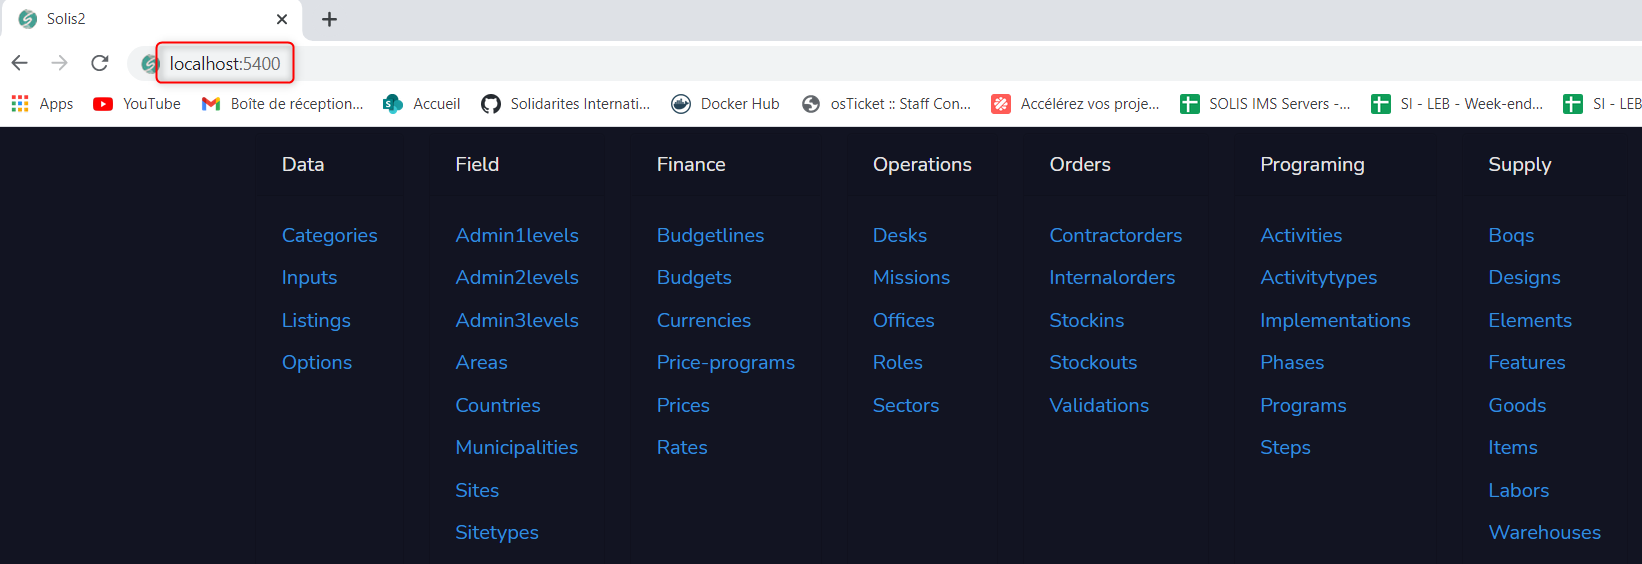
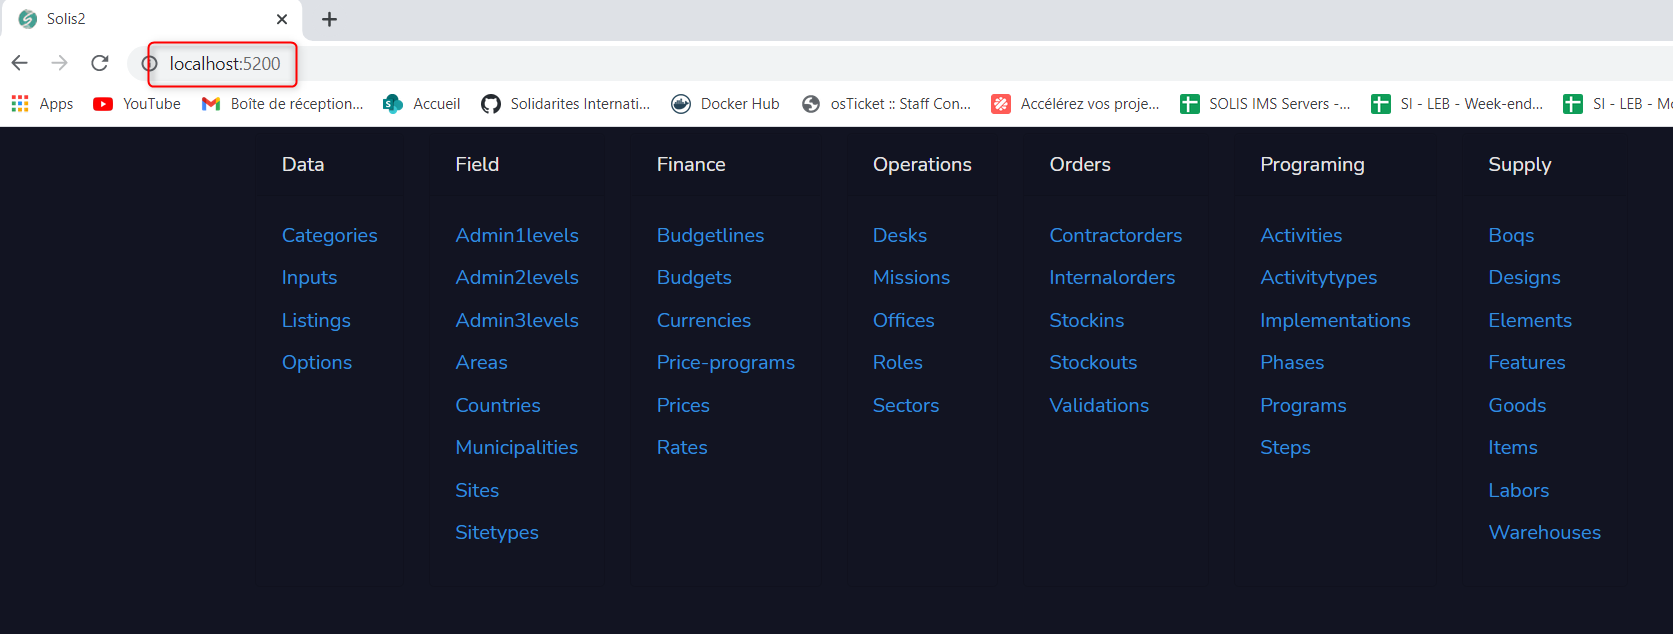
update solis readme and add new config files

diff --git a/solis/README.md b/solis/README.md
@@ -19,15 +19,15 @@ Currently, we have 6 SOLIS servers on the mission:
 ## At the office
 
 When working at the office, and connected to the office Wifi, you can access the SOLIS application directly by typing in the **local IP address** of the server in any web browser, followed by **:8000**.
-For example, if you are at the Miniyeh office, you can connect to **solis1** by opening any web browser and entering the URL **192.168.88.39:8000**.
+For example, if you are at the Zahle office, you can connect to **solis6** by opening any web browser and entering the URL **10.0.2.87:8000**.
 
-![Connect from local IP](connect_to_solis_1.png "Connect from local IP")
+![Connect to solis from local IP](connect_to_solis_1.png "Connect to solis from local IP")
 
 And you will get redirected to the SOLIS login page.
 
 You can also access a demo version of the Solis 2 application by replacing the port **:8000** by **:8001**.
 
-![Connect from local IP](connect_to_solis_1_1.png "Connect from local IP")
+![Connect to solis2 from local IP](connect_to_solis_1_1.png "Connect to solis2 from local IP")
 
 ## Remotely
 
@@ -55,9 +55,17 @@ This will create 2 files in the folder `C:\Users\user_name\.ssh\` (`user_name` i
 
 ![Generated ssh key pairs](connect_to_solis_3.png "Generated ssh key pairs")
 
-Once you have succesfully generated these files, please contact the IM team and send them your **ssh public key** and the _name_ you chose, and we will provide remote access to the servers.
-We will send you a **ssh config file** named _config_, that you will need to add to the same folder (`C:\Users\user_name\.ssh\`). An example of this file is provided at the end of this document.
-This will allow you to access the SOLIS application with a single command!
+Once you have succesfully generated these files, please contact the IM team and send them your **ssh public key** and the _name_ you chose, and we will provide remote access to the servers for you.
+
+You will also need an **ssh configuration file** to simplify the connection process. Please follow the below steps to do this:
+
+- Download the provided **ssh configuration file**: [config](config)
+- Copy it to the _.ssh_ folder in your user directory (`C:\Users\user_name\.ssh\`) and keep the name as _config_.
+- Open the file and rename all of the **$name** fields with the user name you have used previously.
+
+![ssh config file location](connect_to_solis_3_1.png "ssh config file location")
+
+![Rename the ssh config $name](connect_to_solis_3_2.png "Rename the ssh config $name")
 
 ### Connect to the server
 
@@ -83,7 +91,7 @@ When working from home, you will access the SOLIS application through a **ssh co
 
 2. Open any web browser and access the SOLIS application with the following URL:
 
-   `localhost:5200`
+   `localhost:5000`
 
    And you will get redirected to the SOLIS login page.
 
@@ -91,86 +99,20 @@ When working from home, you will access the SOLIS application through a **ssh co
 
 3. You can also access a demo version of the Solis 2 application with the following URL:
 
-   `localhost:5400`
+   `localhost:5200`
 
-   ![Connect to SOLIS](connect_to_solis_5_1.png "Connect to SOLIS")
+   ![Connect to SOLIS 2](connect_to_solis_5_1.png "Connect to SOLIS 2")
 
-## Configuration file
+## Troubleshooting
 
-Below is the **ssh config file**. The **$name** fields will be replaced by the name you provided in the initial setup.
+In case you have connection issue with any server, please contact a member of the IM team. We will gladly help you out !
 
-You can download the file with the following link: [config](config)
+## ssh configuration file for system administrators
 
-```
-Host *
-    StrictHostKeyChecking no
-    UserKnownHostsFile /dev/null
-    ServerAliveInterval 240
+For system administrators:
 
-# Solis Servers
-Host solis1
-    HostName relay0.solis-demo.org
-    User $name
-    IdentityFile ~/.ssh/$name
-    LocalForward 5000 localhost:5001
-    LocalForward 5100 localhost:5101
-    LocalForward 5200 localhost:5201
-    LocalForward 5300 localhost:5301
-    LocalForward 5400 localhost:5401
-    LocalForward 5500 localhost:5501
+- Download the provided **ssh configuration file for administrators**: [config_admin](config_admin)
+- Copy it to the _.ssh_ folder in your user directory (`C:\Users\user_name\.ssh\`) and rename it as _config_.
+- Open the file and rename all of the **$name** fields with the user name you have used previously.
 
-Host solis2
-    HostName relay0.solis-demo.org
-    User $name
-    IdentityFile ~/.ssh/$name
-    LocalForward 5000 localhost:5002
-    LocalForward 5100 localhost:5102
-    LocalForward 5200 localhost:5202
-    LocalForward 5300 localhost:5302
-    LocalForward 5400 localhost:5402
-    LocalForward 5500 localhost:5502
-
-Host solis3
-    HostName relay0.solis-demo.org
-    User $name
-    IdentityFile ~/.ssh/$name
-    LocalForward 5000 localhost:5003
-    LocalForward 5100 localhost:5103
-    LocalForward 5200 localhost:5203
-    LocalForward 5300 localhost:5303
-    LocalForward 5400 localhost:5403
-    LocalForward 5500 localhost:5503
-
-Host solis4
-    HostName relay0.solis-demo.org
-    User $name
-    IdentityFile ~/.ssh/$name
-    LocalForward 5000 localhost:5004
-    LocalForward 5100 localhost:5104
-    LocalForward 5200 localhost:5204
-    LocalForward 5300 localhost:5304
-    LocalForward 5400 localhost:5404
-    LocalForward 5500 localhost:5504
-
-Host solis5
-    HostName relay0.solis-demo.org
-    User $name
-    IdentityFile ~/.ssh/$name
-    LocalForward 5000 localhost:5005
-    LocalForward 5100 localhost:5105
-    LocalForward 5200 localhost:5205
-    LocalForward 5300 localhost:5305
-    LocalForward 5400 localhost:5405
-    LocalForward 5500 localhost:5505
-
-Host solis6
-    HostName relay0.solis-demo.org
-    User $name
-    IdentityFile ~/.ssh/$name
-    LocalForward 5000 localhost:5006
-    LocalForward 5100 localhost:5106
-    LocalForward 5200 localhost:5206
-    LocalForward 5300 localhost:5306
-    LocalForward 5400 localhost:5406
-    LocalForward 5500 localhost:5506
-```
+This file will allow you to connect to all of the servers and relays directly, as well as all of our cloud servers, if you have the proper ssh private key.
